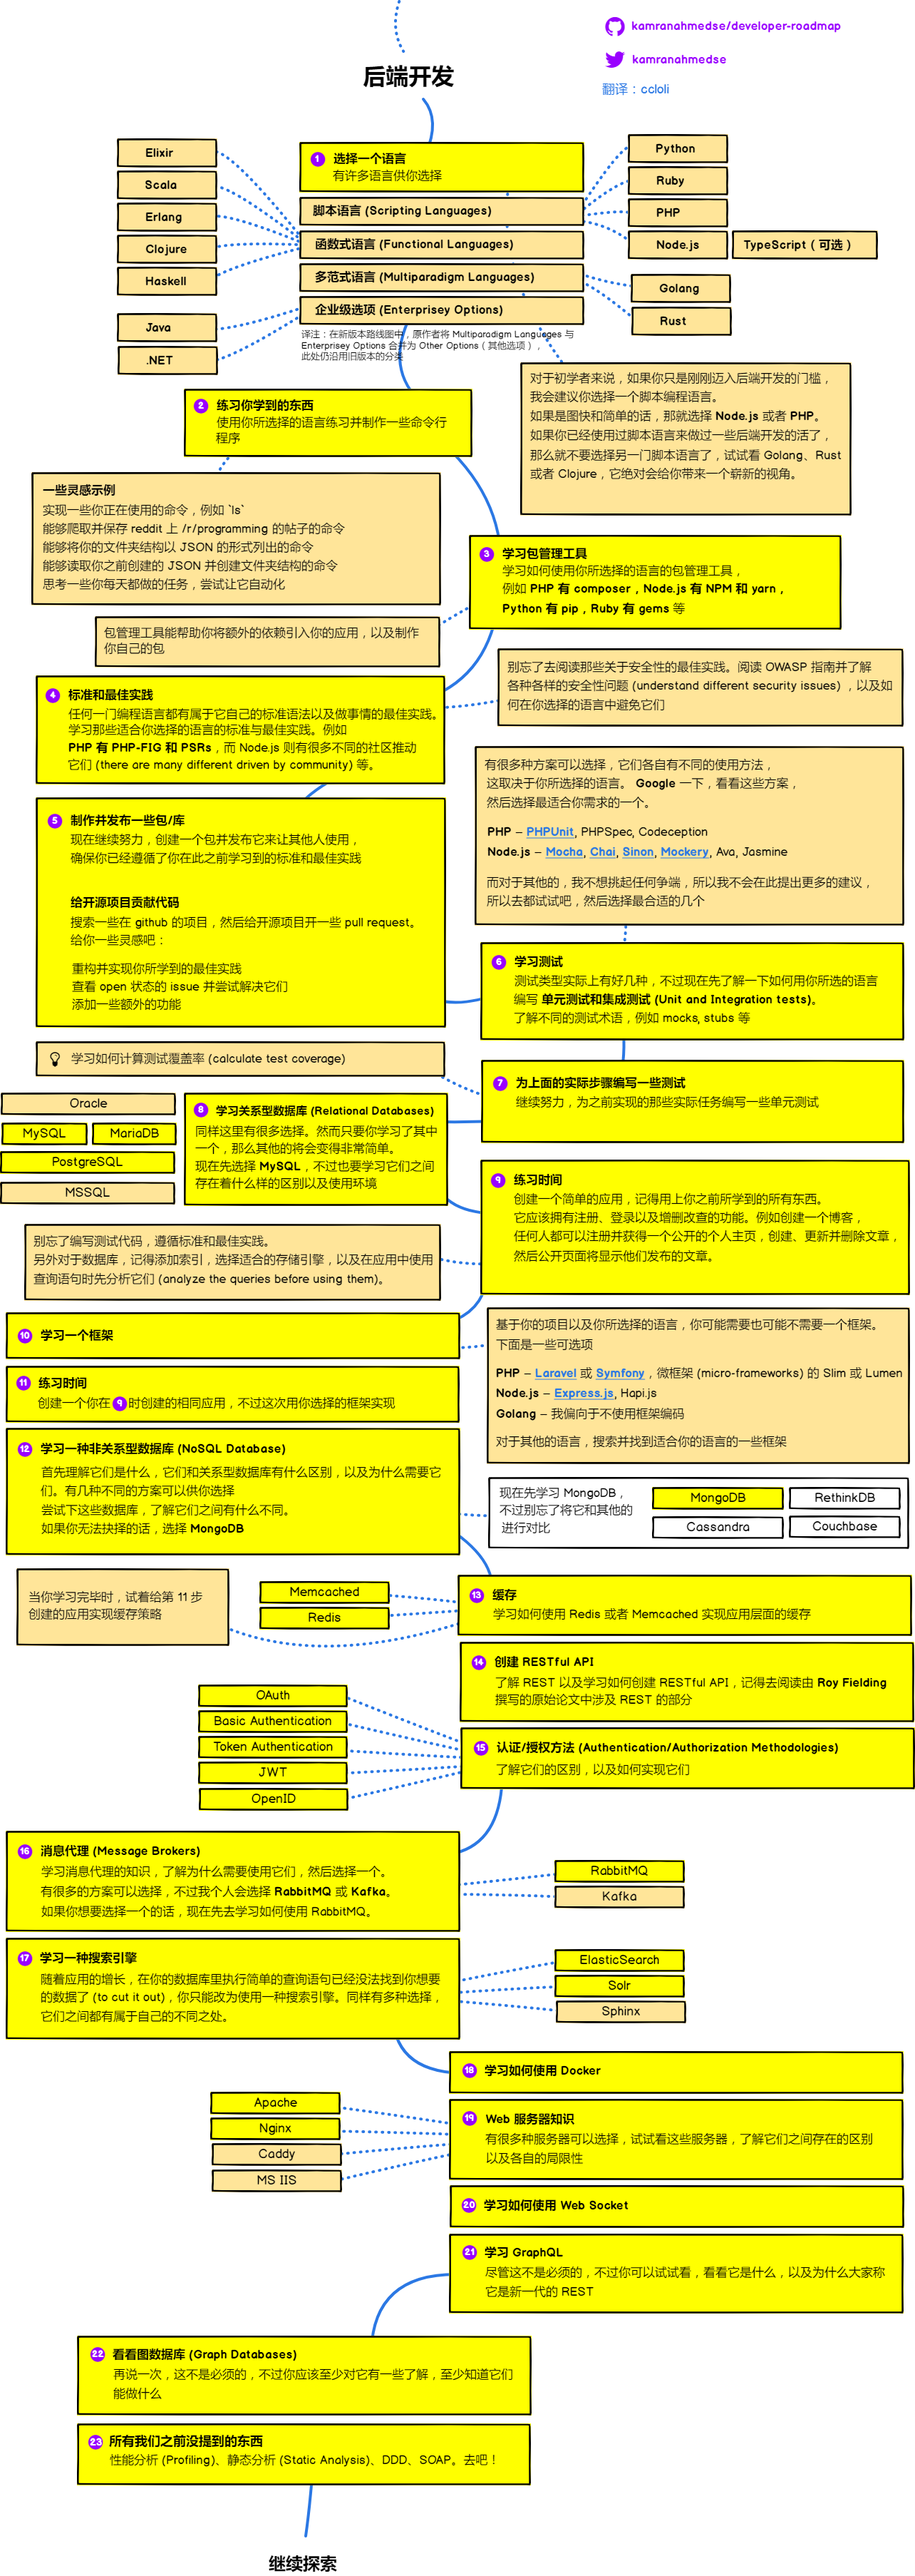
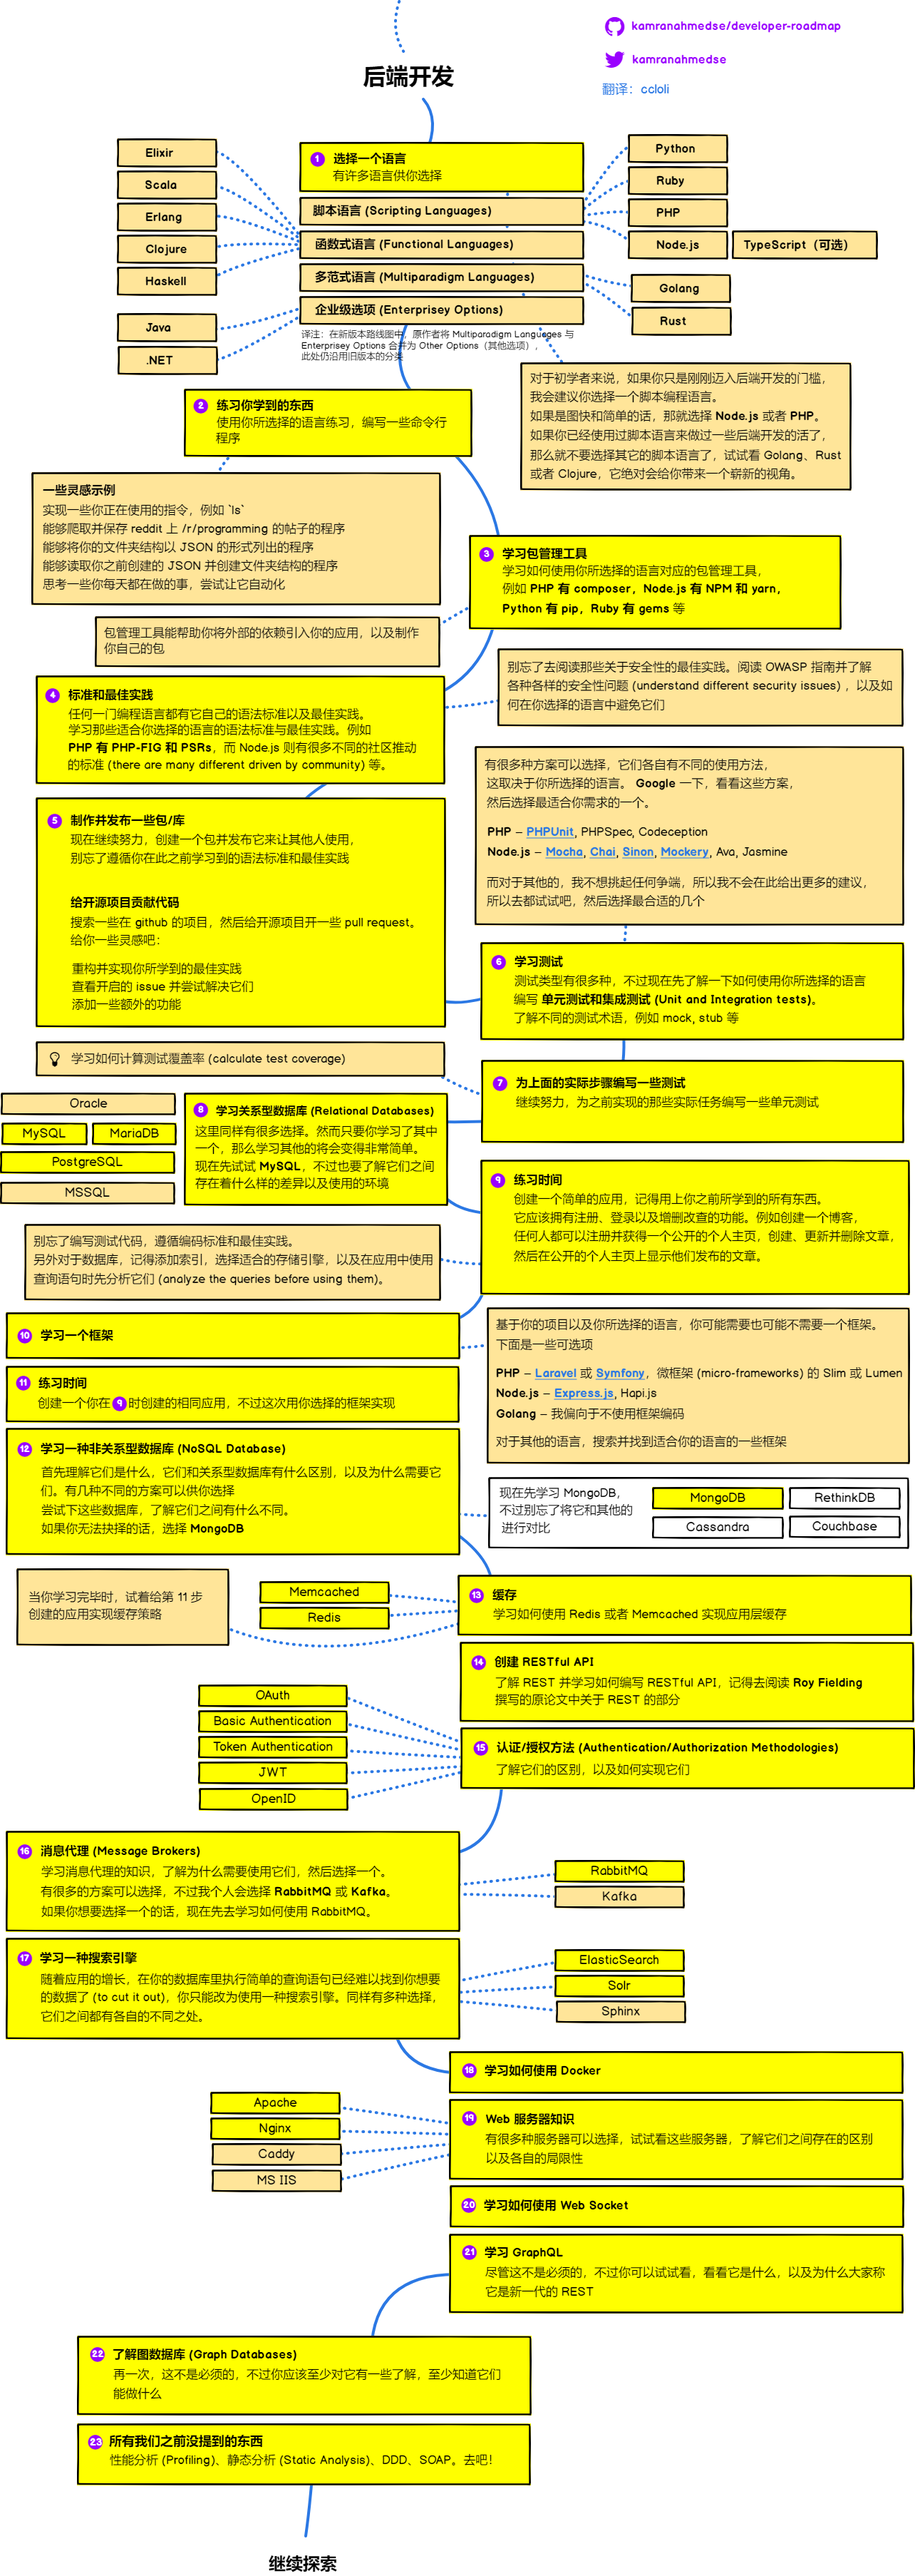
Improve translation

diff --git a/readme.md b/readme.md
@@ -12,7 +12,7 @@
 
 ## 声明
 
-> 这个路线图的本意是让你对整体有一个大致的了解，并能在当你为接下来需要学习什么而感到困惑时引导你，而不是鼓励你去学习那些时尚和潮流的东西 (what is hip and trendy)。你应该对关于 **为什么一个工具在某些场景下比另一个更适合使用有自己的理解 (grow some understanding)，并记住时尚和潮流永远不意味着它最适合这份工作 (best suited for the job)**
+> 这个路线图的本意是让你对这个领域有一个大致的了解，并能在你对接下来要学习什么感到困惑时引导你，而不是鼓励你去学习那些热门和潮流的东西 (what is hip and trendy)。你应该对 **为什么一个工具在某些场景下比另一个更适合使用有属于自己的理解 (grow some understanding)，并记住热门和潮流永远不意味着它最适合这份工作 (best suited for the job)**
 
 ## 🚀 介绍
 
@@ -38,7 +38,7 @@
 
 ## 🙌 贡献
 
-> 请浏览 [贡献文档](./contributing.md) 以了解如何更新路线图
+> 请浏览 [贡献指南](./contributing.md) 以了解如何更新路线图
 
 - 提交改进的 pull request
 - 在 issues 讨论建议

diff --git a/contributing.md b/contributing.md
@@ -1,12 +1,12 @@
 ## 目标
 
 我们的目标不是力求列出一个包含所有东西的庞大列表。  
-我们的目标是列出一个任何人都能在今天上手学习的知识点列表。
+我们的目标是列出一个任何人在今天进入这些领域时都能上手学习的知识点清单。
 
 ## 贡献
 
 我们始终欢迎你给这个 repo 添砖加瓦！  
-需要注意的是，这个 repo 是 *高度主观意见的*、*无偏见的* 和 *有规划的*。  
+需要注意的是，这个 repo 是 *高度个人主观的*、*无偏见的* 和 *有规划的*。  
 你对任何资源的看法可能与原作者的本意不相符。  
 **没有任何解释的 PR 将会被无视！**
 
